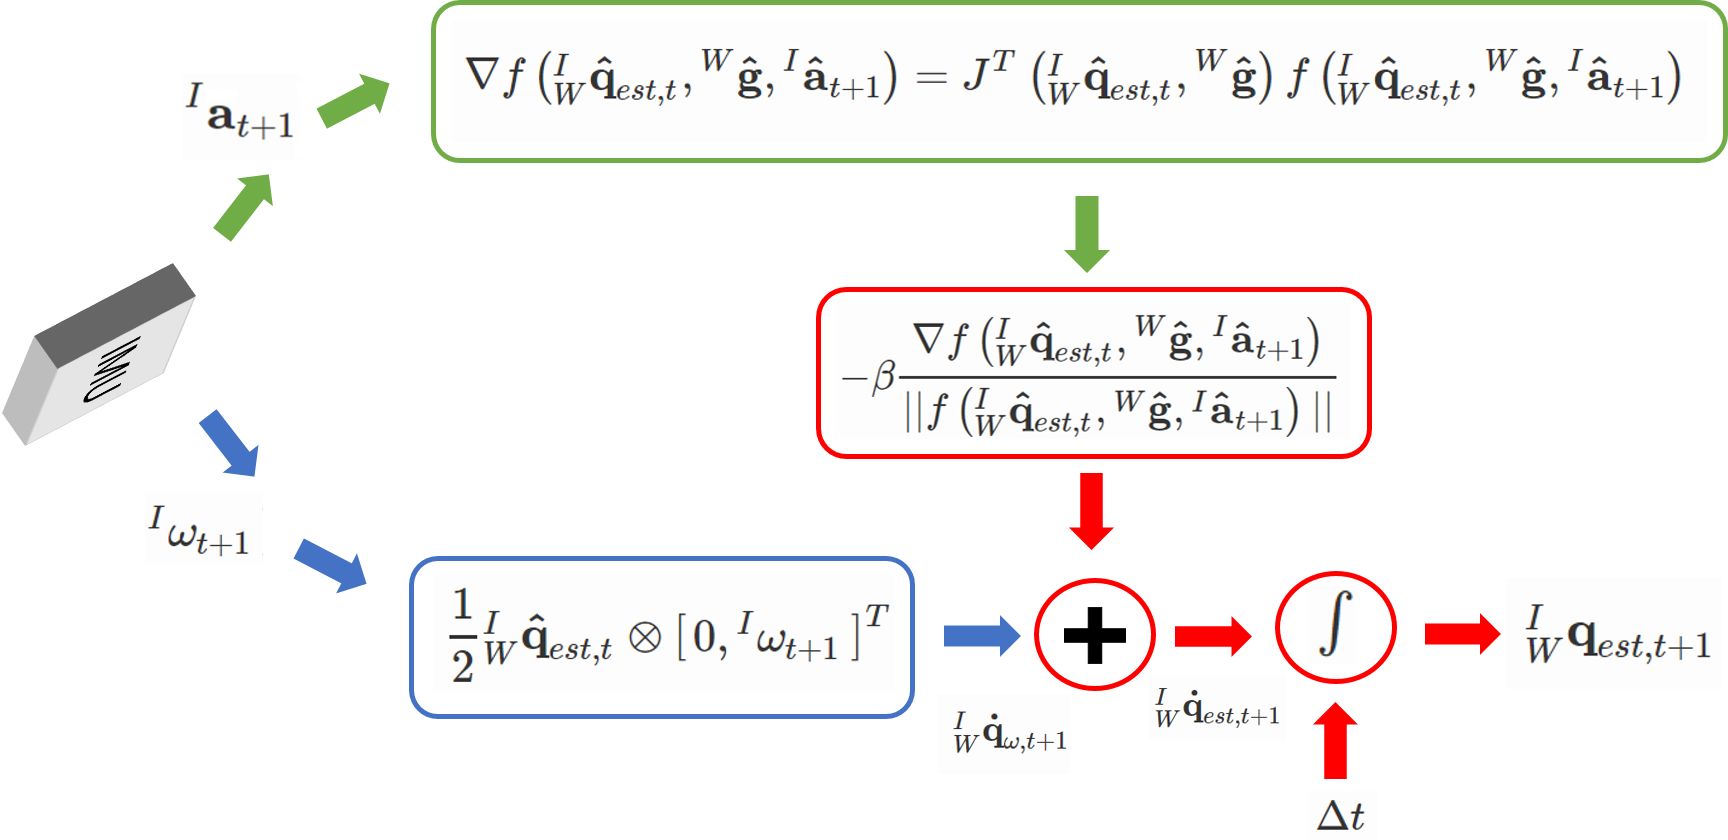
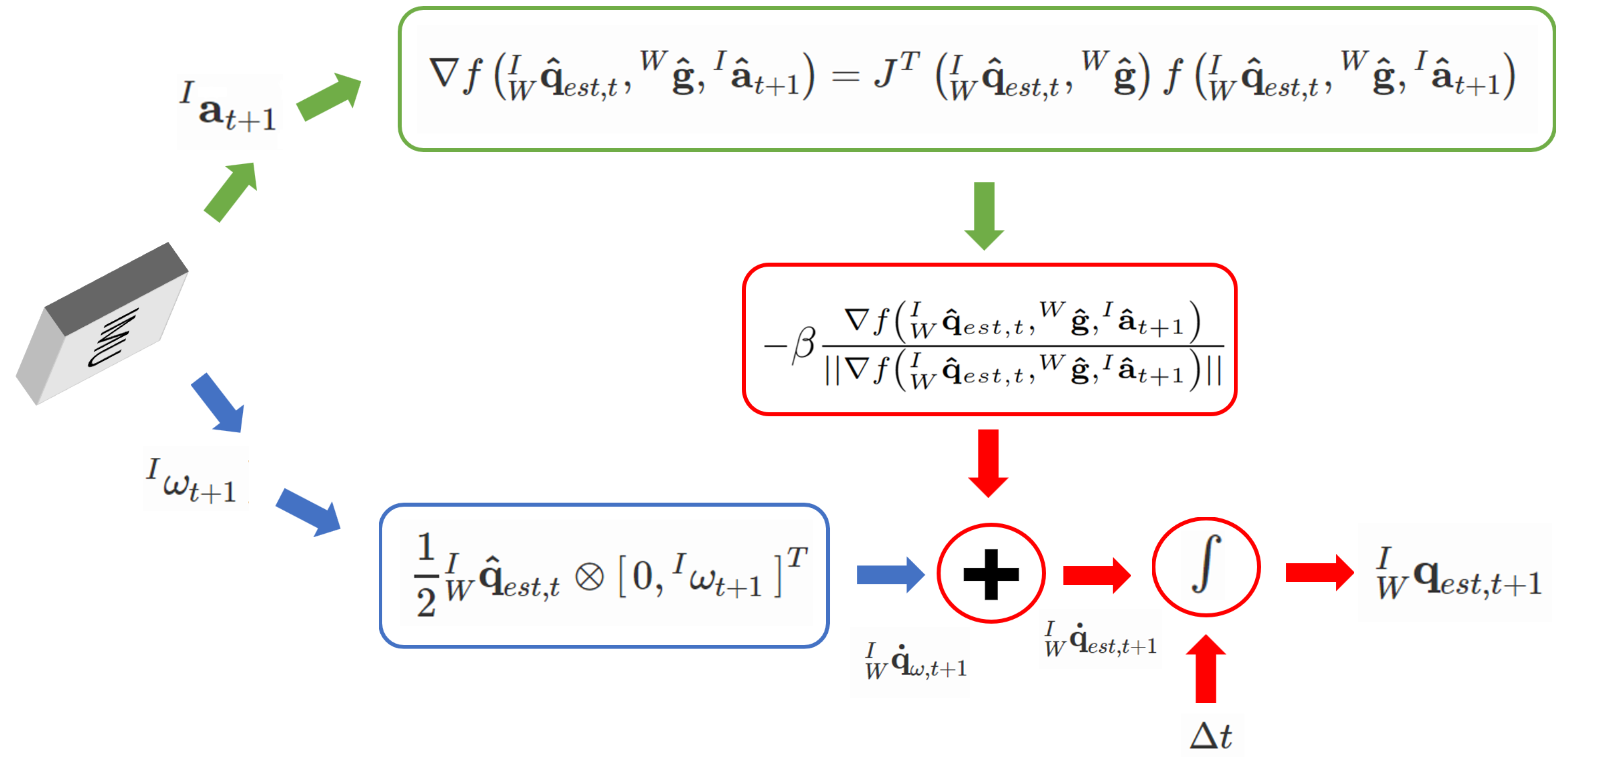
Fixed Magdwick bugs

diff --git a/tutorials/attitudeest/madgwick.html b/tutorials/attitudeest/madgwick.html
@@ -195,7 +195,7 @@
             Update Term (Attitude component from acc measurements) is given by <br><br>
 
             \(
-            {}^{I}_{W}\mathbf{q}_{\nabla, t+1} = - \beta\frac{\nabla f\left( {}^{I}_{W}\mathbf{\hat{q}}_{est, t}, {}^{W}\mathbf{\hat{g}}, {}^{I}\mathbf{\hat{a}}_{t+1} \right)}{\vert \vert  f\left( {}^{I}_{W}\mathbf{\hat{q}}_{est, t}, {}^{W}\mathbf{\hat{g}}, {}^{I}\mathbf{\hat{a}}_{t+1} \right) \vert \vert} 
+            {}^{I}_{W}\mathbf{q}_{\nabla, t+1} = - \beta\frac{\nabla f\left( {}^{I}_{W}\mathbf{\hat{q}}_{est, t}, {}^{W}\mathbf{\hat{g}}, {}^{I}\mathbf{\hat{a}}_{t+1} \right)}{\vert \vert  \nabla f\left( {}^{I}_{W}\mathbf{\hat{q}}_{est, t}, {}^{W}\mathbf{\hat{g}}, {}^{I}\mathbf{\hat{a}}_{t+1} \right) \vert \vert} 
             \)<br><br>
 
             Look at green parts in Fig. 1.<br><br></li>
